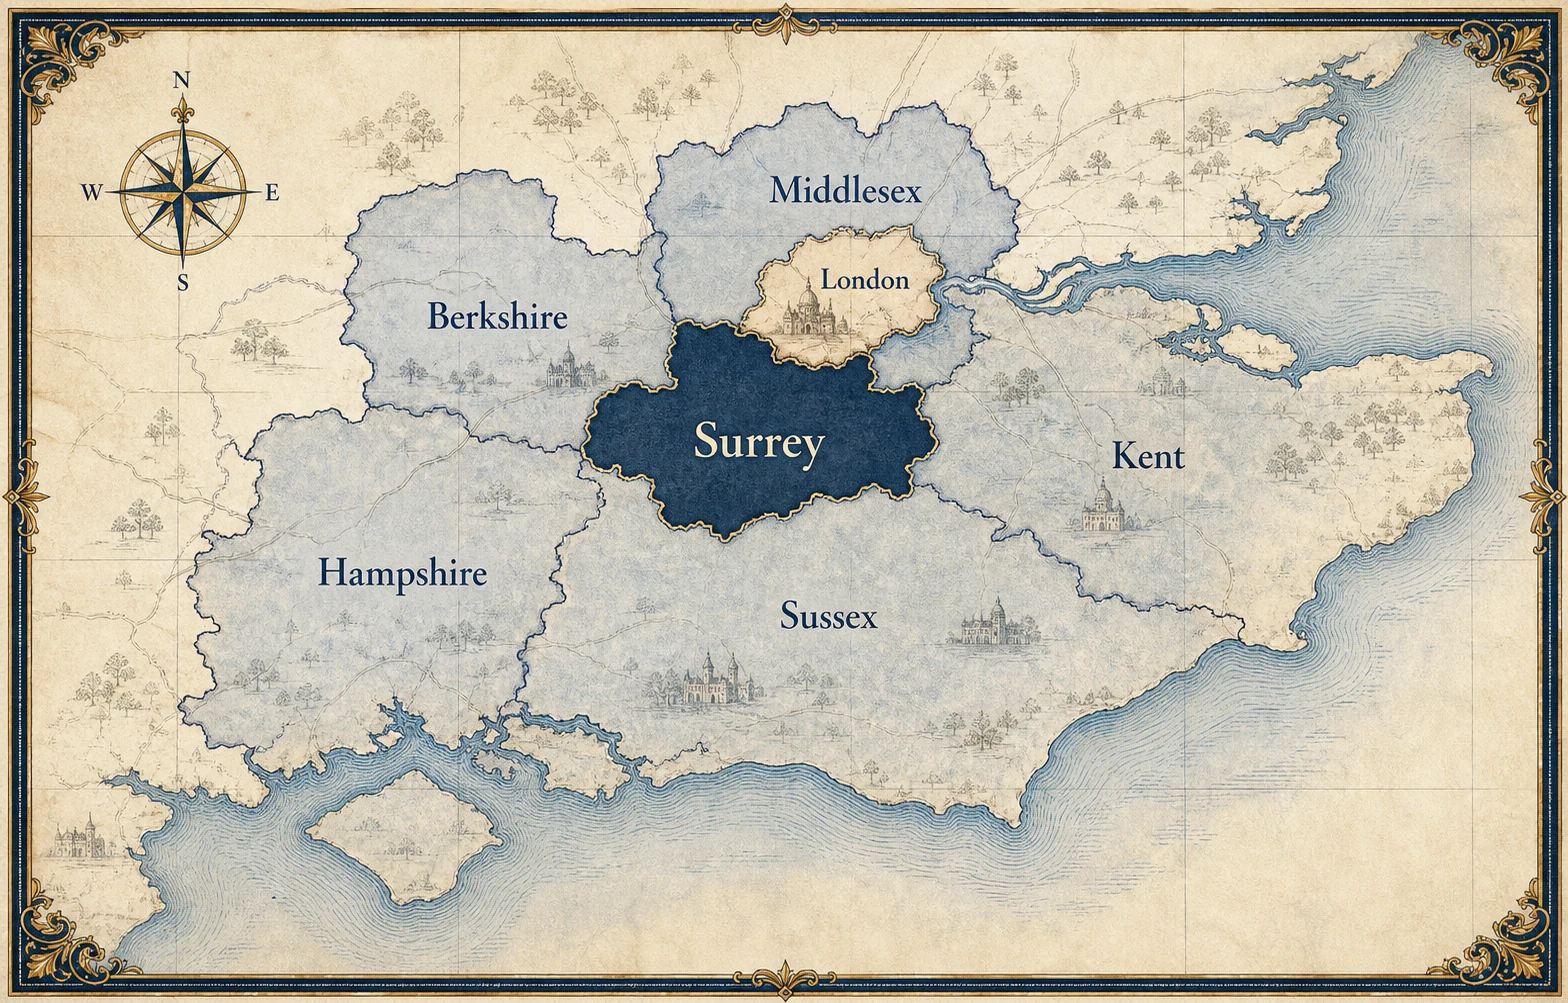
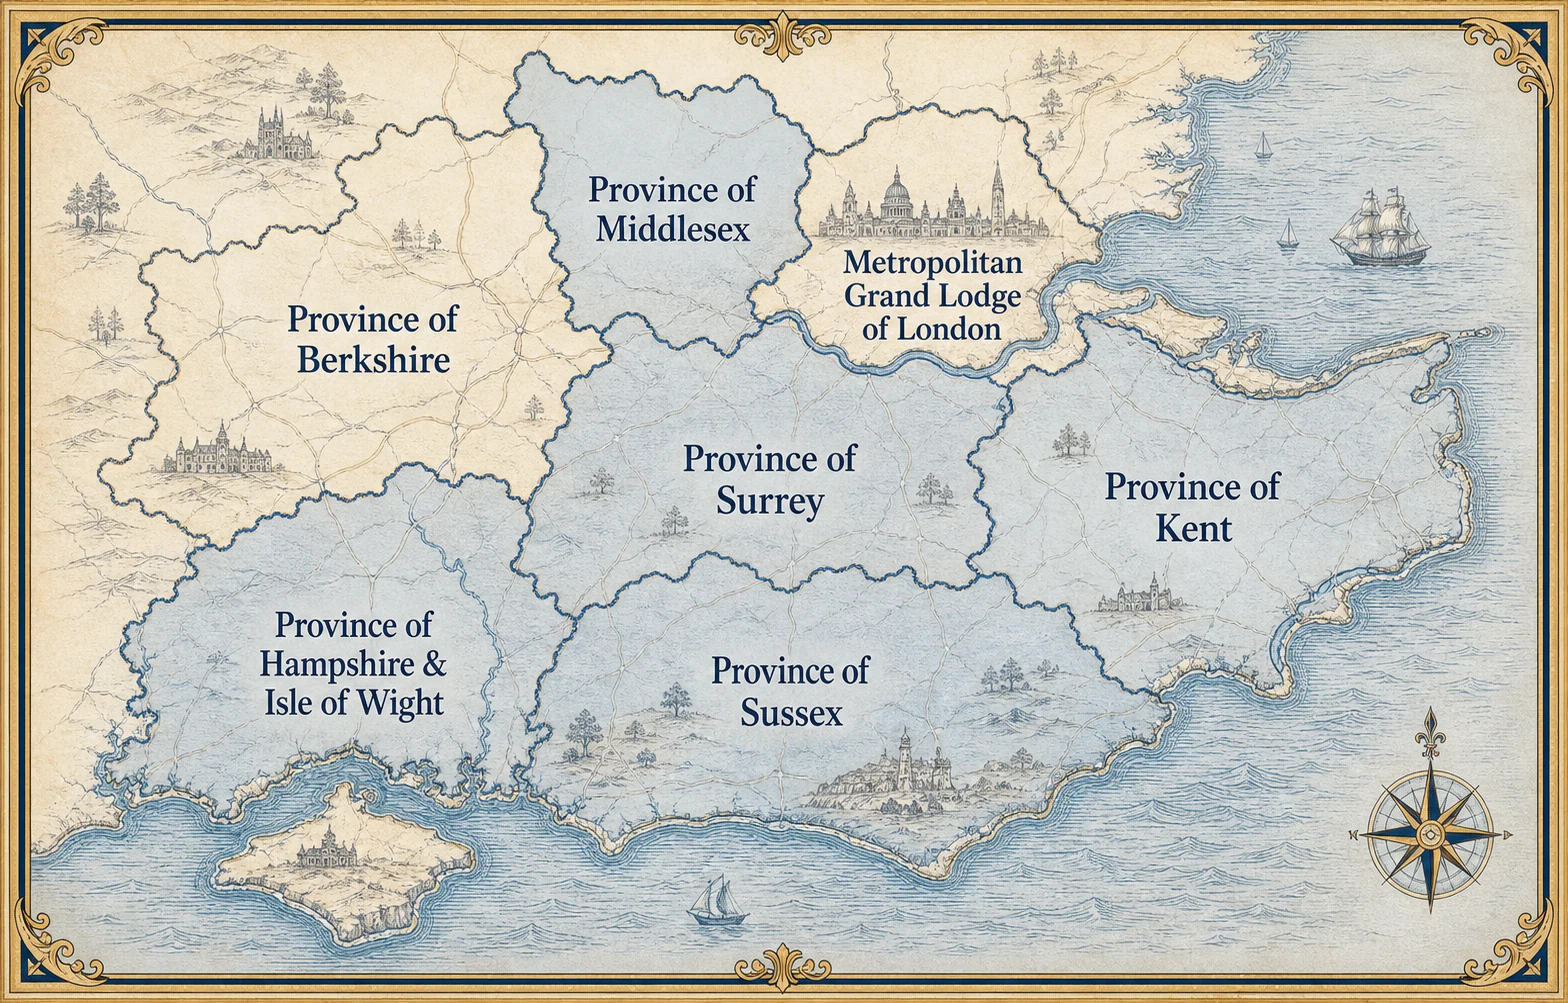
Correct initiates guide province map

diff --git a/index.html b/index.html
@@ -38,11 +38,11 @@
     />
     <meta name="twitter:image" content="https://1837-club.com/assets/surrey-1837-club-home.png" />
     <title>The Surrey 1837 Club | Surrey Light Blues Freemasons</title>
-    <link rel="stylesheet" href="styles.css?v=guide-ai-maps-v1" />
-    <script src="auth.js?v=guide-ai-maps-v1"></script>
-    <script src="site-stats-config.js?v=guide-ai-maps-v1" defer></script>
-    <script src="analytics.js?v=guide-ai-maps-v1" defer></script>
-    <script src="motion.js?v=guide-ai-maps-v1" defer></script>
+    <link rel="stylesheet" href="styles.css?v=guide-ai-province-map-v2" />
+    <script src="auth.js?v=guide-ai-province-map-v2"></script>
+    <script src="site-stats-config.js?v=guide-ai-province-map-v2" defer></script>
+    <script src="analytics.js?v=guide-ai-province-map-v2" defer></script>
+    <script src="motion.js?v=guide-ai-province-map-v2" defer></script>
     <script type="application/ld+json">
       {
         "@context": "https://schema.org",
@@ -285,9 +285,9 @@
         <p>© 2026 The Surrey 1837 Club</p>
       </footer>
     </main>
-    <script src="calendar-events.js?v=guide-ai-maps-v1"></script>
-    <script src="script.js?v=guide-ai-maps-v1"></script>
-    <script src="home.js?v=guide-ai-maps-v1"></script>
-    <script src="easter-egg.js?v=guide-ai-maps-v1"></script>
+    <script src="calendar-events.js?v=guide-ai-province-map-v2"></script>
+    <script src="script.js?v=guide-ai-province-map-v2"></script>
+    <script src="home.js?v=guide-ai-province-map-v2"></script>
+    <script src="easter-egg.js?v=guide-ai-province-map-v2"></script>
   </body>
 </html>

diff --git a/social-events.html b/social-events.html
@@ -32,11 +32,11 @@
     <meta property="og:site_name" content="The Surrey 1837 Club" />
     <meta name="twitter:card" content="summary" />
     <title>Social Events Calendar | The Surrey 1837 Club</title>
-    <link rel="stylesheet" href="styles.css?v=guide-ai-maps-v1" />
-    <script src="auth.js?v=guide-ai-maps-v1"></script>
-    <script src="site-stats-config.js?v=guide-ai-maps-v1" defer></script>
-    <script src="analytics.js?v=guide-ai-maps-v1" defer></script>
-    <script src="motion.js?v=guide-ai-maps-v1" defer></script>
+    <link rel="stylesheet" href="styles.css?v=guide-ai-province-map-v2" />
+    <script src="auth.js?v=guide-ai-province-map-v2"></script>
+    <script src="site-stats-config.js?v=guide-ai-province-map-v2" defer></script>
+    <script src="analytics.js?v=guide-ai-province-map-v2" defer></script>
+    <script src="motion.js?v=guide-ai-province-map-v2" defer></script>
   </head>
   <body data-calendar="social">
     <main class="app-shell">
@@ -160,9 +160,9 @@
       </footer>
     </main>
 
-    <script src="calendar-events.js?v=guide-ai-maps-v1"></script>
-    <script src="script.js?v=guide-ai-maps-v1"></script>
-    <script src="social-events-schema.js?v=guide-ai-maps-v1"></script>
-    <script src="easter-egg.js?v=guide-ai-maps-v1"></script>
+    <script src="calendar-events.js?v=guide-ai-province-map-v2"></script>
+    <script src="script.js?v=guide-ai-province-map-v2"></script>
+    <script src="social-events-schema.js?v=guide-ai-province-map-v2"></script>
+    <script src="easter-egg.js?v=guide-ai-province-map-v2"></script>
   </body>
 </html>

diff --git a/guide-article.html b/guide-article.html
@@ -29,13 +29,13 @@
     <meta name="twitter:description" content="Practical guidance for newly initiated Freemasons in Surrey." />
     <meta name="twitter:image" content="assets/guide-real-general.jpg" />
     <title>Initiates’ Guide | The Surrey 1837 Club</title>
-    <link rel="stylesheet" href="styles.css?v=guide-ai-maps-v1" />
-    <script src="auth.js?v=guide-ai-maps-v1"></script>
-    <script src="site-stats-config.js?v=guide-ai-maps-v1" defer></script>
-    <script src="analytics.js?v=guide-ai-maps-v1" defer></script>
-    <script src="motion.js?v=guide-ai-maps-v1" defer></script>
-    <script src="guide-data.js?v=guide-ai-maps-v1" defer></script>
-    <script src="guide-article.js?v=guide-ai-maps-v1" defer></script>
+    <link rel="stylesheet" href="styles.css?v=guide-ai-province-map-v2" />
+    <script src="auth.js?v=guide-ai-province-map-v2"></script>
+    <script src="site-stats-config.js?v=guide-ai-province-map-v2" defer></script>
+    <script src="analytics.js?v=guide-ai-province-map-v2" defer></script>
+    <script src="motion.js?v=guide-ai-province-map-v2" defer></script>
+    <script src="guide-data.js?v=guide-ai-province-map-v2" defer></script>
+    <script src="guide-article.js?v=guide-ai-province-map-v2" defer></script>
   </head>
   <body>
     <main class="home-shell guide-shell">
@@ -68,6 +68,6 @@
         <p>© 2026 The Surrey 1837 Club</p>
       </footer>
     </main>
-    <script src="easter-egg.js?v=guide-ai-maps-v1"></script>
+    <script src="easter-egg.js?v=guide-ai-province-map-v2"></script>
   </body>
 </html>

diff --git a/chapter-meetings.html b/chapter-meetings.html
@@ -32,11 +32,11 @@
     <meta property="og:site_name" content="The Surrey 1837 Club" />
     <meta name="twitter:card" content="summary" />
     <title>Chapter Meetings Calendar | The Surrey 1837 Club</title>
-    <link rel="stylesheet" href="styles.css?v=guide-ai-maps-v1" />
-    <script src="auth.js?v=guide-ai-maps-v1"></script>
-    <script src="site-stats-config.js?v=guide-ai-maps-v1" defer></script>
-    <script src="analytics.js?v=guide-ai-maps-v1" defer></script>
-    <script src="motion.js?v=guide-ai-maps-v1" defer></script>
+    <link rel="stylesheet" href="styles.css?v=guide-ai-province-map-v2" />
+    <script src="auth.js?v=guide-ai-province-map-v2"></script>
+    <script src="site-stats-config.js?v=guide-ai-province-map-v2" defer></script>
+    <script src="analytics.js?v=guide-ai-province-map-v2" defer></script>
+    <script src="motion.js?v=guide-ai-province-map-v2" defer></script>
   </head>
   <body data-calendar="chapter">
     <main class="app-shell">
@@ -166,8 +166,8 @@
       </footer>
     </main>
 
-    <script src="calendar-events.js?v=guide-ai-maps-v1"></script>
-    <script src="script.js?v=guide-ai-maps-v1"></script>
-    <script src="easter-egg.js?v=guide-ai-maps-v1"></script>
+    <script src="calendar-events.js?v=guide-ai-province-map-v2"></script>
+    <script src="script.js?v=guide-ai-province-map-v2"></script>
+    <script src="easter-egg.js?v=guide-ai-province-map-v2"></script>
   </body>
 </html>

diff --git a/lodge-meetings.html b/lodge-meetings.html
@@ -32,11 +32,11 @@
     <meta property="og:site_name" content="The Surrey 1837 Club" />
     <meta name="twitter:card" content="summary" />
     <title>Lodge Meeting Calendar | The Surrey 1837 Club</title>
-    <link rel="stylesheet" href="styles.css?v=guide-ai-maps-v1" />
-    <script src="auth.js?v=guide-ai-maps-v1"></script>
-    <script src="site-stats-config.js?v=guide-ai-maps-v1" defer></script>
-    <script src="analytics.js?v=guide-ai-maps-v1" defer></script>
-    <script src="motion.js?v=guide-ai-maps-v1" defer></script>
+    <link rel="stylesheet" href="styles.css?v=guide-ai-province-map-v2" />
+    <script src="auth.js?v=guide-ai-province-map-v2"></script>
+    <script src="site-stats-config.js?v=guide-ai-province-map-v2" defer></script>
+    <script src="analytics.js?v=guide-ai-province-map-v2" defer></script>
+    <script src="motion.js?v=guide-ai-province-map-v2" defer></script>
   </head>
   <body data-calendar="lodge">
     <main class="app-shell">
@@ -170,8 +170,8 @@
       </footer>
     </main>
 
-    <script src="calendar-events.js?v=guide-ai-maps-v1"></script>
-    <script src="script.js?v=guide-ai-maps-v1"></script>
-    <script src="easter-egg.js?v=guide-ai-maps-v1"></script>
+    <script src="calendar-events.js?v=guide-ai-province-map-v2"></script>
+    <script src="script.js?v=guide-ai-province-map-v2"></script>
+    <script src="easter-egg.js?v=guide-ai-province-map-v2"></script>
   </body>
 </html>

diff --git a/initiates-guide.html b/initiates-guide.html
@@ -29,11 +29,11 @@
     <meta name="twitter:description" content="Practical, Surrey-specific guidance for newly initiated Freemasons." />
     <meta name="twitter:image" content="assets/guide-real-general.jpg" />
     <title>Initiates’ Guide | The Surrey 1837 Club</title>
-    <link rel="stylesheet" href="styles.css?v=guide-ai-maps-v1" />
-    <script src="auth.js?v=guide-ai-maps-v1"></script>
-    <script src="site-stats-config.js?v=guide-ai-maps-v1" defer></script>
-    <script src="analytics.js?v=guide-ai-maps-v1" defer></script>
-    <script src="motion.js?v=guide-ai-maps-v1" defer></script>
+    <link rel="stylesheet" href="styles.css?v=guide-ai-province-map-v2" />
+    <script src="auth.js?v=guide-ai-province-map-v2"></script>
+    <script src="site-stats-config.js?v=guide-ai-province-map-v2" defer></script>
+    <script src="analytics.js?v=guide-ai-province-map-v2" defer></script>
+    <script src="motion.js?v=guide-ai-province-map-v2" defer></script>
   </head>
   <body>
     <main class="home-shell guide-shell">
@@ -156,6 +156,6 @@
         <p>© 2026 The Surrey 1837 Club</p>
       </footer>
     </main>
-    <script src="easter-egg.js?v=guide-ai-maps-v1"></script>
+    <script src="easter-egg.js?v=guide-ai-province-map-v2"></script>
   </body>
 </html>

diff --git a/tylers-trial.html b/tylers-trial.html
@@ -17,10 +17,10 @@
     <link rel="apple-touch-icon" sizes="180x180" href="apple-touch-icon.png" />
     <link rel="manifest" href="site.webmanifest" />
     <title>Tyler's Trial | The Surrey 1837 Club</title>
-    <link rel="stylesheet" href="styles.css?v=guide-ai-maps-v1" />
-    <script src="site-stats-config.js?v=guide-ai-maps-v1" defer></script>
-    <script src="analytics.js?v=guide-ai-maps-v1" defer></script>
-    <script src="motion.js?v=guide-ai-maps-v1" defer></script>
+    <link rel="stylesheet" href="styles.css?v=guide-ai-province-map-v2" />
+    <script src="site-stats-config.js?v=guide-ai-province-map-v2" defer></script>
+    <script src="analytics.js?v=guide-ai-province-map-v2" defer></script>
+    <script src="motion.js?v=guide-ai-province-map-v2" defer></script>
   </head>
   <body class="trial-page lodge-floor-page">
     <main class="trial-shell lodge-game-shell">
@@ -74,7 +74,7 @@
         </p>
       </section>
     </main>
-    <script src="tylers-leaderboard-config.js?v=guide-ai-maps-v1"></script>
-    <script src="tylers-trial.js?v=guide-ai-maps-v1"></script>
+    <script src="tylers-leaderboard-config.js?v=guide-ai-province-map-v2"></script>
+    <script src="tylers-trial.js?v=guide-ai-province-map-v2"></script>
   </body>
 </html>

diff --git a/join-the-community.html b/join-the-community.html
@@ -32,11 +32,11 @@
     <meta property="og:site_name" content="The Surrey 1837 Club" />
     <meta name="twitter:card" content="summary" />
     <title>Join the Community | The Surrey 1837 Club</title>
-    <link rel="stylesheet" href="styles.css?v=guide-ai-maps-v1" />
-    <script src="auth.js?v=guide-ai-maps-v1"></script>
-    <script src="site-stats-config.js?v=guide-ai-maps-v1" defer></script>
-    <script src="analytics.js?v=guide-ai-maps-v1" defer></script>
-    <script src="motion.js?v=guide-ai-maps-v1" defer></script>
+    <link rel="stylesheet" href="styles.css?v=guide-ai-province-map-v2" />
+    <script src="auth.js?v=guide-ai-province-map-v2"></script>
+    <script src="site-stats-config.js?v=guide-ai-province-map-v2" defer></script>
+    <script src="analytics.js?v=guide-ai-province-map-v2" defer></script>
+    <script src="motion.js?v=guide-ai-province-map-v2" defer></script>
   </head>
   <body>
     <main class="home-shell">
@@ -303,6 +303,6 @@
         <p>© 2026 The Surrey 1837 Club</p>
       </footer>
     </main>
-    <script src="easter-egg.js?v=guide-ai-maps-v1"></script>
+    <script src="easter-egg.js?v=guide-ai-province-map-v2"></script>
   </body>
 </html>

diff --git a/event-manager.html b/event-manager.html
@@ -17,9 +17,9 @@
     <link rel="apple-touch-icon" sizes="180x180" href="apple-touch-icon.png" />
     <link rel="manifest" href="site.webmanifest" />
     <title>Event Manager | The Surrey 1837 Club</title>
-    <link rel="stylesheet" href="styles.css?v=guide-ai-maps-v1" />
-    <script src="auth.js?v=guide-ai-maps-v1"></script>
-    <script src="motion.js?v=guide-ai-maps-v1" defer></script>
+    <link rel="stylesheet" href="styles.css?v=guide-ai-province-map-v2" />
+    <script src="auth.js?v=guide-ai-province-map-v2"></script>
+    <script src="motion.js?v=guide-ai-province-map-v2" defer></script>
   </head>
   <body>
     <main class="manager-shell">
@@ -238,8 +238,8 @@
       </footer>
     </main>
 
-    <script src="calendar-events.js?v=guide-ai-maps-v1"></script>
-    <script src="event-manager.js?v=guide-ai-maps-v1" defer></script>
-    <script src="easter-egg.js?v=guide-ai-maps-v1"></script>
+    <script src="calendar-events.js?v=guide-ai-province-map-v2"></script>
+    <script src="event-manager.js?v=guide-ai-province-map-v2" defer></script>
+    <script src="easter-egg.js?v=guide-ai-province-map-v2"></script>
   </body>
 </html>

diff --git a/stats.html b/stats.html
@@ -17,9 +17,9 @@
     <link rel="apple-touch-icon" sizes="180x180" href="apple-touch-icon.png" />
     <link rel="manifest" href="site.webmanifest" />
     <title>1837 Club Website Stats</title>
-    <link rel="stylesheet" href="styles.css?v=guide-ai-maps-v1" />
-    <script src="auth.js?v=guide-ai-maps-v1"></script>
-    <script src="motion.js?v=guide-ai-maps-v1" defer></script>
+    <link rel="stylesheet" href="styles.css?v=guide-ai-province-map-v2" />
+    <script src="auth.js?v=guide-ai-province-map-v2"></script>
+    <script src="motion.js?v=guide-ai-province-map-v2" defer></script>
   </head>
   <body>
     <main class="manager-shell stats-shell">
@@ -130,8 +130,8 @@
       </footer>
     </main>
 
-    <script src="site-stats-config.js?v=guide-ai-maps-v1"></script>
-    <script src="stats.js?v=guide-ai-maps-v1"></script>
-    <script src="easter-egg.js?v=guide-ai-maps-v1"></script>
+    <script src="site-stats-config.js?v=guide-ai-province-map-v2"></script>
+    <script src="stats.js?v=guide-ai-province-map-v2"></script>
+    <script src="easter-egg.js?v=guide-ai-province-map-v2"></script>
   </body>
 </html>

diff --git a/admin.html b/admin.html
@@ -17,9 +17,9 @@
     <link rel="apple-touch-icon" sizes="180x180" href="apple-touch-icon.png" />
     <link rel="manifest" href="site.webmanifest" />
     <title>Admin Home | The Surrey 1837 Club</title>
-    <link rel="stylesheet" href="styles.css?v=guide-ai-maps-v1" />
-    <script src="auth.js?v=guide-ai-maps-v1"></script>
-    <script src="motion.js?v=guide-ai-maps-v1" defer></script>
+    <link rel="stylesheet" href="styles.css?v=guide-ai-province-map-v2" />
+    <script src="auth.js?v=guide-ai-province-map-v2"></script>
+    <script src="motion.js?v=guide-ai-province-map-v2" defer></script>
   </head>
   <body>
     <main class="manager-shell admin-shell">
@@ -90,6 +90,6 @@
         <p>© 2026 The Surrey 1837 Club</p>
       </footer>
     </main>
-    <script src="easter-egg.js?v=guide-ai-maps-v1"></script>
+    <script src="easter-egg.js?v=guide-ai-province-map-v2"></script>
   </body>
 </html>

diff --git a/login.html b/login.html
@@ -17,8 +17,8 @@
     <link rel="apple-touch-icon" sizes="180x180" href="apple-touch-icon.png" />
     <link rel="manifest" href="site.webmanifest" />
     <title>1837 Club Login</title>
-    <link rel="stylesheet" href="styles.css?v=guide-ai-maps-v1" />
-    <script src="motion.js?v=guide-ai-maps-v1" defer></script>
+    <link rel="stylesheet" href="styles.css?v=guide-ai-province-map-v2" />
+    <script src="motion.js?v=guide-ai-province-map-v2" defer></script>
   </head>
   <body>
     <main class="login-shell">
@@ -55,7 +55,7 @@
       </footer>
     </main>
 
-    <script src="login.js?v=guide-ai-maps-v1"></script>
-    <script src="easter-egg.js?v=guide-ai-maps-v1"></script>
+    <script src="login.js?v=guide-ai-province-map-v2"></script>
+    <script src="easter-egg.js?v=guide-ai-province-map-v2"></script>
   </body>
 </html>
